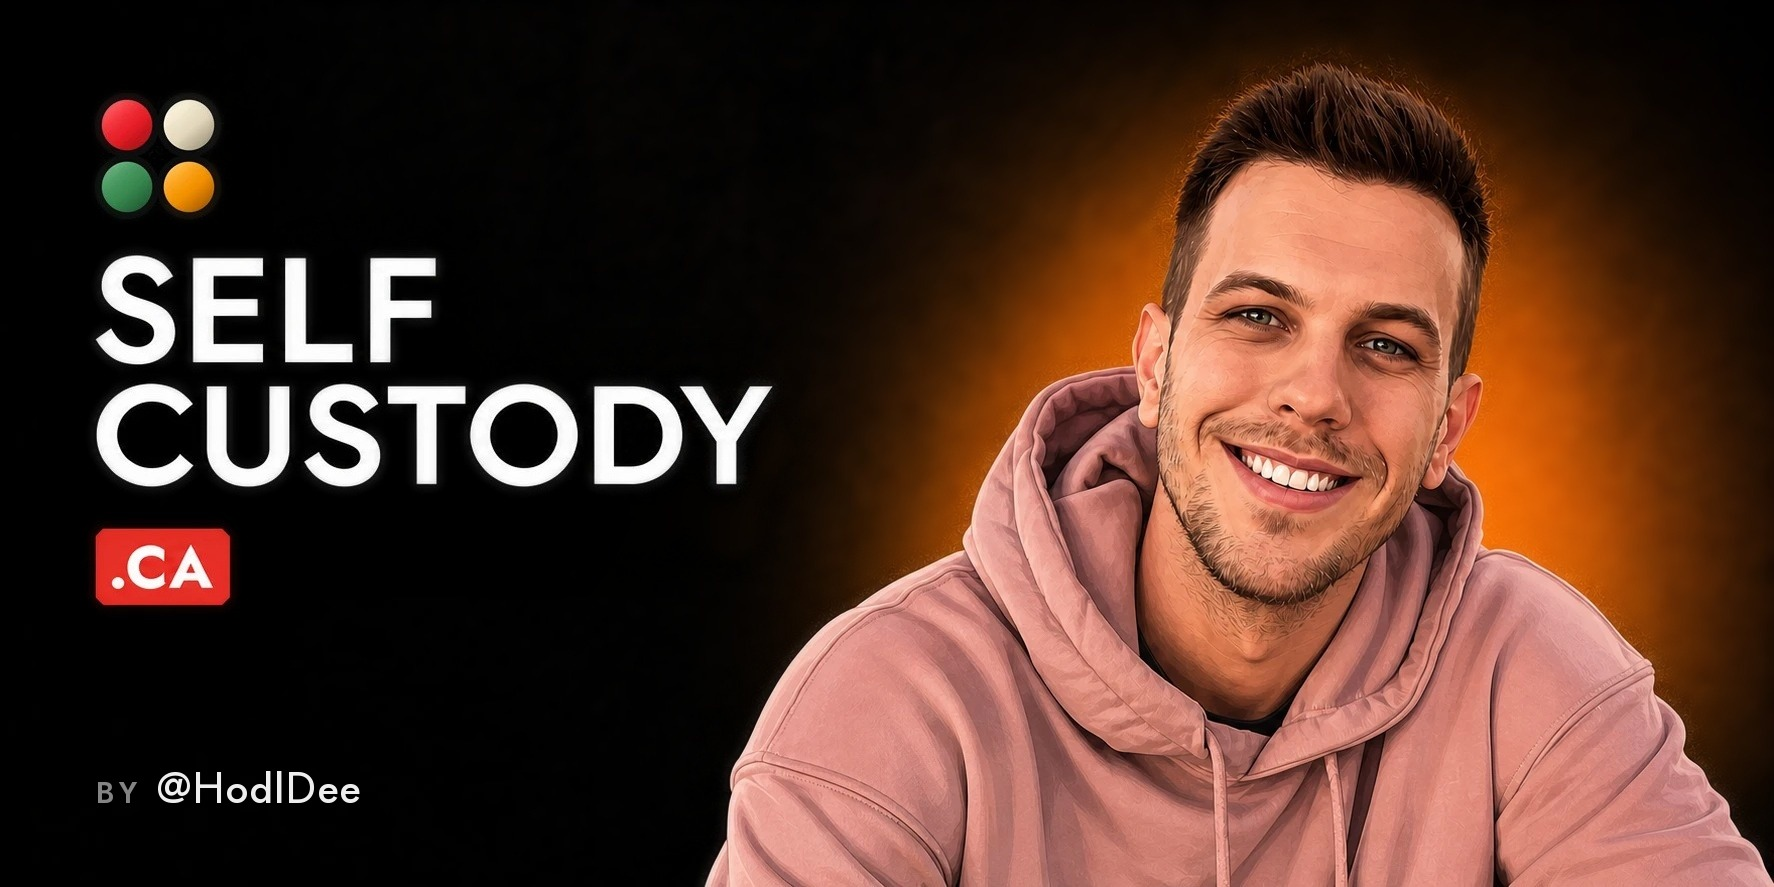
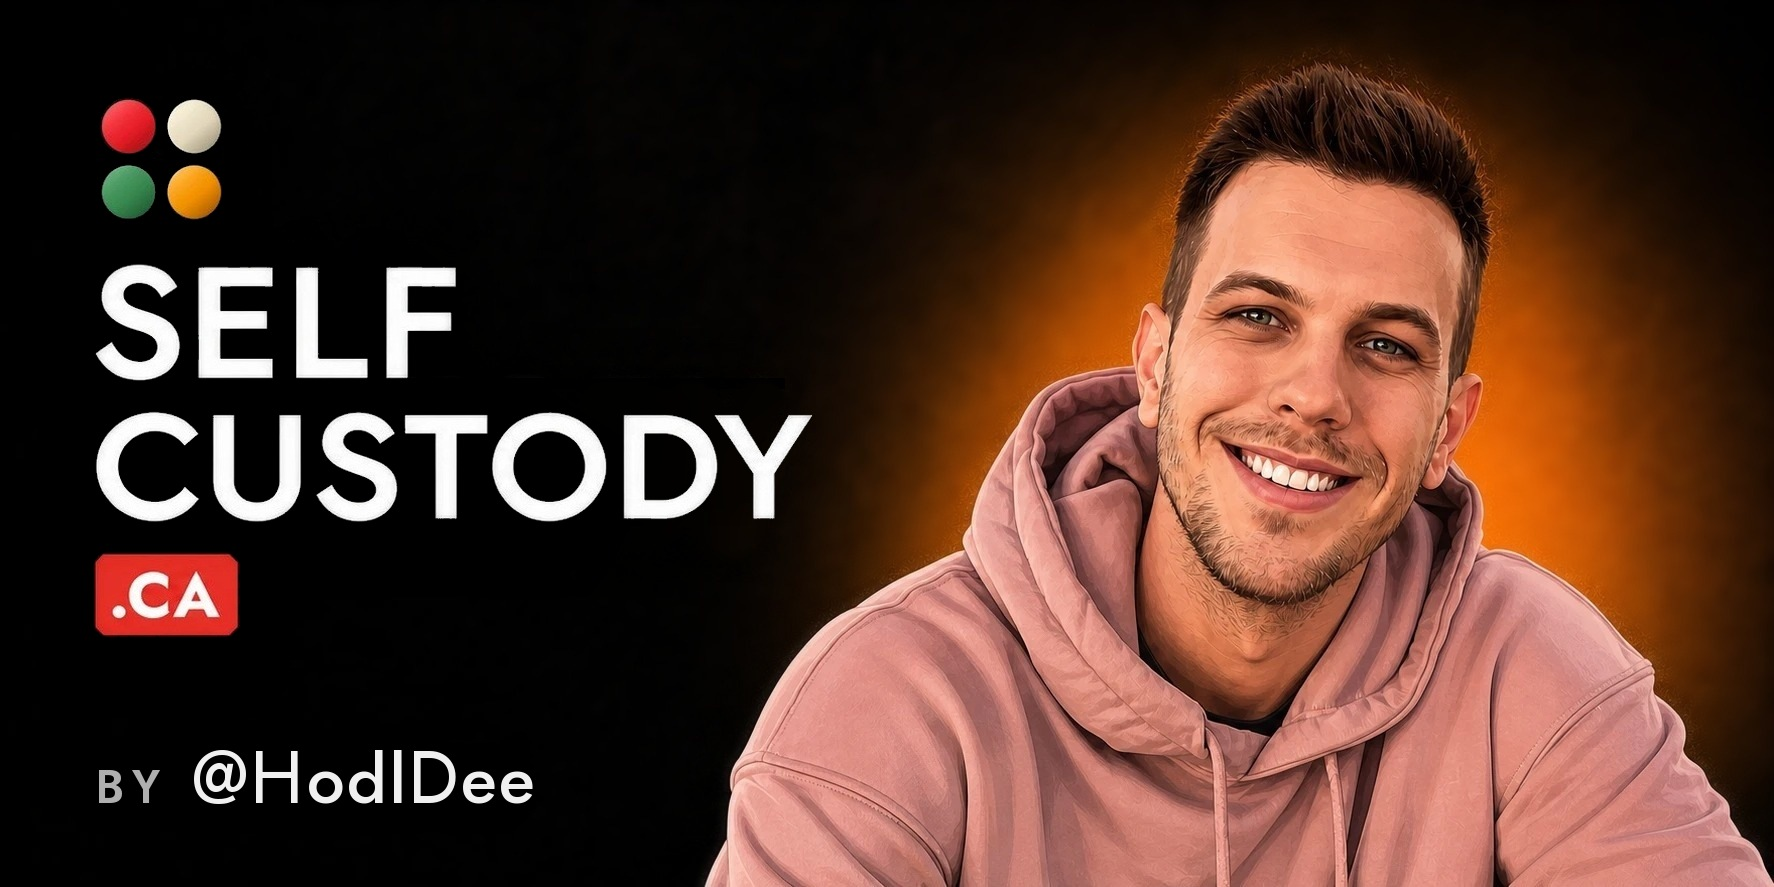
Size the social card's left column for how it actually gets displayed
Three adjustments to the preview card, all driven by measuring it at the
widths link unfurls really use rather than at full resolution.

Desktop is the constraint, not mobile: Slack pins an unfurl near 360px and
Discord near 400px at 1x density, while a phone renders ~390px at 2-3x and
is held half as far away. Against 400px the credit's x-height was 4.2px,
well under the ~8px that stays comfortable, which is why it read as a
smudge in chat.

The credit goes to 64px and its BY label lifts to #AFAFAF. Testing 72px
against 64px-with-a-brighter-label, the brighter label won: at these sizes
contrast buys more legibility per unit of visual weight than size does,
and it costs nothing compositionally.

CUSTODY was 21px below SELF but 44px above the badge, so it read as stuck
to the top line. Now 32/33. It was cut on rows verified quiet under
luminance 25 so the shift could not clip either line's glow.

The left column scales 1.06. The wordmark had no legibility deficit to fix
-- it clears the floor by 2.5x at every width -- so the only gain is
presence, and presence stops paying once the type crowds the portrait. The
gap from CUSTODY to the hoodie: 130px at 1.00, 78px at 1.06, 48px at 1.09,
2px at 1.15. 1.06 reads fuller while still breathing.

Scaling needed a masked lift, not a scale in place: that background is a
subtle gradient rather than flat black, so erasing to black left a visible
rectangle. The lockup is isolated by connected component -- which also
[…]

Changed region(s): [[0.031, 0.274, 0.4651, 0.7306], [0.031, 0.8219, 0.31, 0.9132], [0.062, 0.0913, 0.124, 0.2435]]

diff --git a/docs/devices.html b/docs/devices.html
@@ -13,13 +13,13 @@
   <meta property="og:title" content="Hardware Wallets & Signing Devices | SelfCustody.ca">
   <meta property="og:description" content="Compare current Bitcoin hardware wallets and signing devices by security model, connectivity, usability, openness, and ideal use case.">
   <meta property="og:url" content="https://selfcustody.ca/devices.html">
-  <meta property="og:image" content="https://selfcustody.ca/assets/img/social-preview.jpg?v=3">
+  <meta property="og:image" content="https://selfcustody.ca/assets/img/social-preview.jpg?v=4">
   <meta property="og:image:type" content="image/jpeg">
   <meta property="og:image:width" content="1774">
   <meta property="og:image:height" content="887">
   <meta property="og:image:alt" content="SelfCustody.ca with an illustrated portrait and orange glow">
   <meta name="twitter:card" content="summary_large_image">
-  <meta name="twitter:image" content="https://selfcustody.ca/assets/img/social-preview.jpg?v=3">
+  <meta name="twitter:image" content="https://selfcustody.ca/assets/img/social-preview.jpg?v=4">
   <meta name="twitter:image:alt" content="SelfCustody.ca with an illustrated portrait and orange glow">
   <link rel="icon" type="image/svg+xml" href="assets/img/self-custody-favicon.svg">
   <link rel="icon" href="assets/img/favicon.png">

diff --git a/docs/dashboard.html b/docs/dashboard.html
@@ -13,13 +13,13 @@
   <meta property="og:title" content="Live Bitcoin Dashboard | SelfCustody.ca">
   <meta property="og:description" content="Live Bitcoin dashboard: price in CAD and USD, sats per dollar, block height, fee rates, network hashrate, and the Fear &amp; Greed index.">
   <meta property="og:url" content="https://selfcustody.ca/dashboard.html">
-  <meta property="og:image" content="https://selfcustody.ca/assets/img/social-preview.jpg?v=3">
+  <meta property="og:image" content="https://selfcustody.ca/assets/img/social-preview.jpg?v=4">
   <meta property="og:image:type" content="image/jpeg">
   <meta property="og:image:width" content="1774">
   <meta property="og:image:height" content="887">
   <meta property="og:image:alt" content="SelfCustody.ca with an illustrated portrait and orange glow">
   <meta name="twitter:card" content="summary_large_image">
-  <meta name="twitter:image" content="https://selfcustody.ca/assets/img/social-preview.jpg?v=3">
+  <meta name="twitter:image" content="https://selfcustody.ca/assets/img/social-preview.jpg?v=4">
   <meta name="twitter:image:alt" content="SelfCustody.ca with an illustrated portrait and orange glow">
   <link rel="icon" type="image/svg+xml" href="assets/img/self-custody-favicon.svg">
   <link rel="icon" href="assets/img/favicon.png">

diff --git a/docs/guides.html b/docs/guides.html
@@ -13,13 +13,13 @@
   <meta property="og:title" content="Guides | SelfCustody.ca">
   <meta property="og:description" content="A practical, step-by-step learning path for buying bitcoin, setting up a wallet, withdrawing safely, testing recovery, and maintaining self-custody.">
   <meta property="og:url" content="https://selfcustody.ca/guides.html">
-  <meta property="og:image" content="https://selfcustody.ca/assets/img/social-preview.jpg?v=3">
+  <meta property="og:image" content="https://selfcustody.ca/assets/img/social-preview.jpg?v=4">
   <meta property="og:image:type" content="image/jpeg">
   <meta property="og:image:width" content="1774">
   <meta property="og:image:height" content="887">
   <meta property="og:image:alt" content="SelfCustody.ca with an illustrated portrait and orange glow">
   <meta name="twitter:card" content="summary_large_image">
-  <meta name="twitter:image" content="https://selfcustody.ca/assets/img/social-preview.jpg?v=3">
+  <meta name="twitter:image" content="https://selfcustody.ca/assets/img/social-preview.jpg?v=4">
   <meta name="twitter:image:alt" content="SelfCustody.ca with an illustrated portrait and orange glow">
   <link rel="icon" type="image/svg+xml" href="assets/img/self-custody-favicon.svg">
   <link rel="icon" href="assets/img/favicon.png">

diff --git a/docs/exchanges.html b/docs/exchanges.html
@@ -13,13 +13,13 @@
   <meta property="og:title" content="Exchanges | SelfCustody.ca">
   <meta property="og:description" content="Compare Canadian bitcoin purchase routes by custody model, CAD funding, trading tools, withdrawal workflow, and fit for self-custody.">
   <meta property="og:url" content="https://selfcustody.ca/exchanges.html">
-  <meta property="og:image" content="https://selfcustody.ca/assets/img/social-preview.jpg?v=3">
+  <meta property="og:image" content="https://selfcustody.ca/assets/img/social-preview.jpg?v=4">
   <meta property="og:image:type" content="image/jpeg">
   <meta property="og:image:width" content="1774">
   <meta property="og:image:height" content="887">
   <meta property="og:image:alt" content="SelfCustody.ca with an illustrated portrait and orange glow">
   <meta name="twitter:card" content="summary_large_image">
-  <meta name="twitter:image" content="https://selfcustody.ca/assets/img/social-preview.jpg?v=3">
+  <meta name="twitter:image" content="https://selfcustody.ca/assets/img/social-preview.jpg?v=4">
   <meta name="twitter:image:alt" content="SelfCustody.ca with an illustrated portrait and orange glow">
   <link rel="icon" type="image/svg+xml" href="assets/img/self-custody-favicon.svg">
   <link rel="icon" href="assets/img/favicon.png">

diff --git a/docs/software.html b/docs/software.html
@@ -13,13 +13,13 @@
   <meta property="og:title" content="Wallet Software | SelfCustody.ca">
   <meta property="og:description" content="Compare Sparrow, BlueWallet, Electrum, Nunchuk, and Cove Wallet by platform, hardware support, privacy, and multisig.">
   <meta property="og:url" content="https://selfcustody.ca/software.html">
-  <meta property="og:image" content="https://selfcustody.ca/assets/img/social-preview.jpg?v=3">
+  <meta property="og:image" content="https://selfcustody.ca/assets/img/social-preview.jpg?v=4">
   <meta property="og:image:type" content="image/jpeg">
   <meta property="og:image:width" content="1774">
   <meta property="og:image:height" content="887">
   <meta property="og:image:alt" content="SelfCustody.ca with an illustrated portrait and orange glow">
   <meta name="twitter:card" content="summary_large_image">
-  <meta name="twitter:image" content="https://selfcustody.ca/assets/img/social-preview.jpg?v=3">
+  <meta name="twitter:image" content="https://selfcustody.ca/assets/img/social-preview.jpg?v=4">
   <meta name="twitter:image:alt" content="SelfCustody.ca with an illustrated portrait and orange glow">
   <link rel="icon" type="image/svg+xml" href="assets/img/self-custody-favicon.svg">
   <link rel="icon" href="assets/img/favicon.png">

diff --git a/docs/coinkite.html b/docs/coinkite.html
@@ -13,13 +13,13 @@
   <meta property="og:title" content="Coinkite Product Guide | SelfCustody.ca">
   <meta property="og:description" content="A focused guide to Coinkite products including COLDCARD Q, Mk5, TAPSIGNER, SATSCARD, OPENDIME, and SEEDPLATE.">
   <meta property="og:url" content="https://selfcustody.ca/coinkite.html">
-  <meta property="og:image" content="https://selfcustody.ca/assets/img/social-preview.jpg?v=3">
+  <meta property="og:image" content="https://selfcustody.ca/assets/img/social-preview.jpg?v=4">
   <meta property="og:image:type" content="image/jpeg">
   <meta property="og:image:width" content="1774">
   <meta property="og:image:height" content="887">
   <meta property="og:image:alt" content="SelfCustody.ca with an illustrated portrait and orange glow">
   <meta name="twitter:card" content="summary_large_image">
-  <meta name="twitter:image" content="https://selfcustody.ca/assets/img/social-preview.jpg?v=3">
+  <meta name="twitter:image" content="https://selfcustody.ca/assets/img/social-preview.jpg?v=4">
   <meta name="twitter:image:alt" content="SelfCustody.ca with an illustrated portrait and orange glow">
   <link rel="icon" type="image/svg+xml" href="assets/img/self-custody-favicon.svg">
   <link rel="icon" href="assets/img/favicon.png">

diff --git a/docs/index.html b/docs/index.html
@@ -13,13 +13,13 @@
   <meta property="og:title" content="SelfCustody.ca">
   <meta property="og:description" content="Your keys, your coins. Learn how to buy it, move it, and protect it without turning security into a full time job.">
   <meta property="og:url" content="https://selfcustody.ca/">
-  <meta property="og:image" content="https://selfcustody.ca/assets/img/social-preview.jpg?v=3">
+  <meta property="og:image" content="https://selfcustody.ca/assets/img/social-preview.jpg?v=4">
   <meta property="og:image:type" content="image/jpeg">
   <meta property="og:image:width" content="1774">
   <meta property="og:image:height" content="887">
   <meta property="og:image:alt" content="SelfCustody.ca with an illustrated portrait and orange glow">
   <meta name="twitter:card" content="summary_large_image">
-  <meta name="twitter:image" content="https://selfcustody.ca/assets/img/social-preview.jpg?v=3">
+  <meta name="twitter:image" content="https://selfcustody.ca/assets/img/social-preview.jpg?v=4">
   <meta name="twitter:image:alt" content="SelfCustody.ca with an illustrated portrait and orange glow">
   <link rel="icon" type="image/svg+xml" href="assets/img/self-custody-favicon.svg">
   <link rel="icon" href="assets/img/favicon.png">

diff --git a/docs/contact.html b/docs/contact.html
@@ -11,13 +11,13 @@
   <meta property="og:site_name" content="SelfCustody.ca">
   <meta property="og:title" content="Contact | SelfCustody.ca">
   <meta property="og:url" content="https://selfcustody.ca/contact.html">
-  <meta property="og:image" content="https://selfcustody.ca/assets/img/social-preview.jpg?v=3">
+  <meta property="og:image" content="https://selfcustody.ca/assets/img/social-preview.jpg?v=4">
   <meta property="og:image:type" content="image/jpeg">
   <meta property="og:image:width" content="1774">
   <meta property="og:image:height" content="887">
   <meta property="og:image:alt" content="SelfCustody.ca with an illustrated portrait and orange glow">
   <meta name="twitter:card" content="summary_large_image">
-  <meta name="twitter:image" content="https://selfcustody.ca/assets/img/social-preview.jpg?v=3">
+  <meta name="twitter:image" content="https://selfcustody.ca/assets/img/social-preview.jpg?v=4">
   <meta name="twitter:image:alt" content="SelfCustody.ca with an illustrated portrait and orange glow">
   <link rel="icon" type="image/svg+xml" href="assets/img/self-custody-favicon.svg">
   <link rel="icon" href="assets/img/favicon.png">
